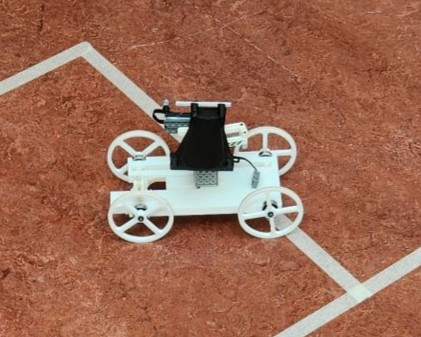
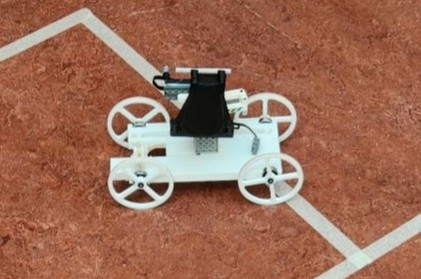
Added 2024 Mini Projects and Cookie Cart Launcher Project

diff --git a/index.html b/index.html
@@ -111,6 +111,17 @@
                     </div>
                 </div>   
             </details>
+            <!-- Cookie Cart Launcher -->
+            <details> 
+                <summary>Cookie Cart Launcher <p class="project-date">| Apr 2024 - Jun 2024</p></summary>
+                <!-- TODO: Add project details here -->
+                <div class="horizontal-section">
+                    <img src="media\cookie cart launcher\cookiecart-launcher.jpg" alt="Bluetooth Speaker" class="project-photo">
+                    <div class="project-text">
+                        For my Physics 11 final project, I designed an elastic powered cart that delivers a fortune cookie from a launcher controlled via lego technic.
+                    </div>
+                </div>   
+            </details>
         <br>
         <h3> Mini Projects</h3>
         <hr>
@@ -131,6 +142,50 @@
                     <div class="project-text">
                             <p class="details">Feb 21st</p>
                             A marker holder that fits various sizes. I designed it because I had a hard time reaching shorter markers and fitting thicker markers in my pencil stand.
+                    </div>
+                </div>
+            </details>
+            <!-- 2026 Mini Projects -->
+            <details open> 
+                <summary>2024 Mini Projects</summary>
+                 <!-- TODO: Add project details here -->
+                <div class="horizontal-section">
+                    <img src="media\mini projects\catkeychain.jpg" width=500 height="auto" scrolling="no" frameborder="0"></img>
+                    <div class="project-text">
+                            <p class="details">Feb 27th</p>
+                            Two cat keychains referenced from a bookmark model.
+                            <br><br>
+                            The bookmark model can be found <a class="link" href="https://www.printables.com/model/837580-cat-bookmark" target="_blank">here</a>
+                    </div>
+                </div>
+                 <div class="horizontal-section">
+                    <img src="media\mini projects\pencilcasev1.jpg" width=310 height="auto" scrolling="no" frameborder="0"></img>
+                    <img src="media\mini projects\pencilcasev2.jpg" width=310 height="auto" scrolling="no" frameborder="0"></img>
+                    <div class="project-text">
+                            <p class="details">Feb 28th, 29th</p>
+                            A light magnetic pencil case to secure all your pencils in your backpack.
+                            <br>
+                            Shown on the left are versions 1 and 2.
+                    </div>
+                </div>
+                <div class="horizontal-section">
+                    <img src="media\mini projects\fidgetspinner.jpg" width=640 height="auto" scrolling="no" frameborder="0"></img>
+                    <div class="project-text">
+                            <p class="details">Feb 27th</p>
+                            A fidget spinner with a ball bearing inside.
+                    </div>
+                </div>
+                <div class="horizontal-section">
+                    <img src="media\mini projects\initialdkeychain.jpg" width=640 height="auto" scrolling="no" frameborder="0"></img>
+                    <div class="project-text">
+                            <p class="details">Feb 24th</p>
+                            A keychain based on the anime 'Initial D.'
+                            <br><br>
+                            References:
+                            <ul>
+                                <li><a class="link" href="https://www.printables.com/model/549920-initial-d-fujiwara-tofu-store-plaque" target="_blank">Tag Model</a></li>
+                                <li><a class="link" href="https://www.printables.com/model/405420-toyota-ae86-trueno-keychain" target="_blank">Car Model</a></li>
+                            </ul>
                     </div>
                 </div>
             </details>

diff --git a/index.css b/index.css
@@ -37,3 +37,6 @@ summary {
     font-weight: 500;
     vertical-align: middle;
 }
+img {
+    margin: 10px;
+}
